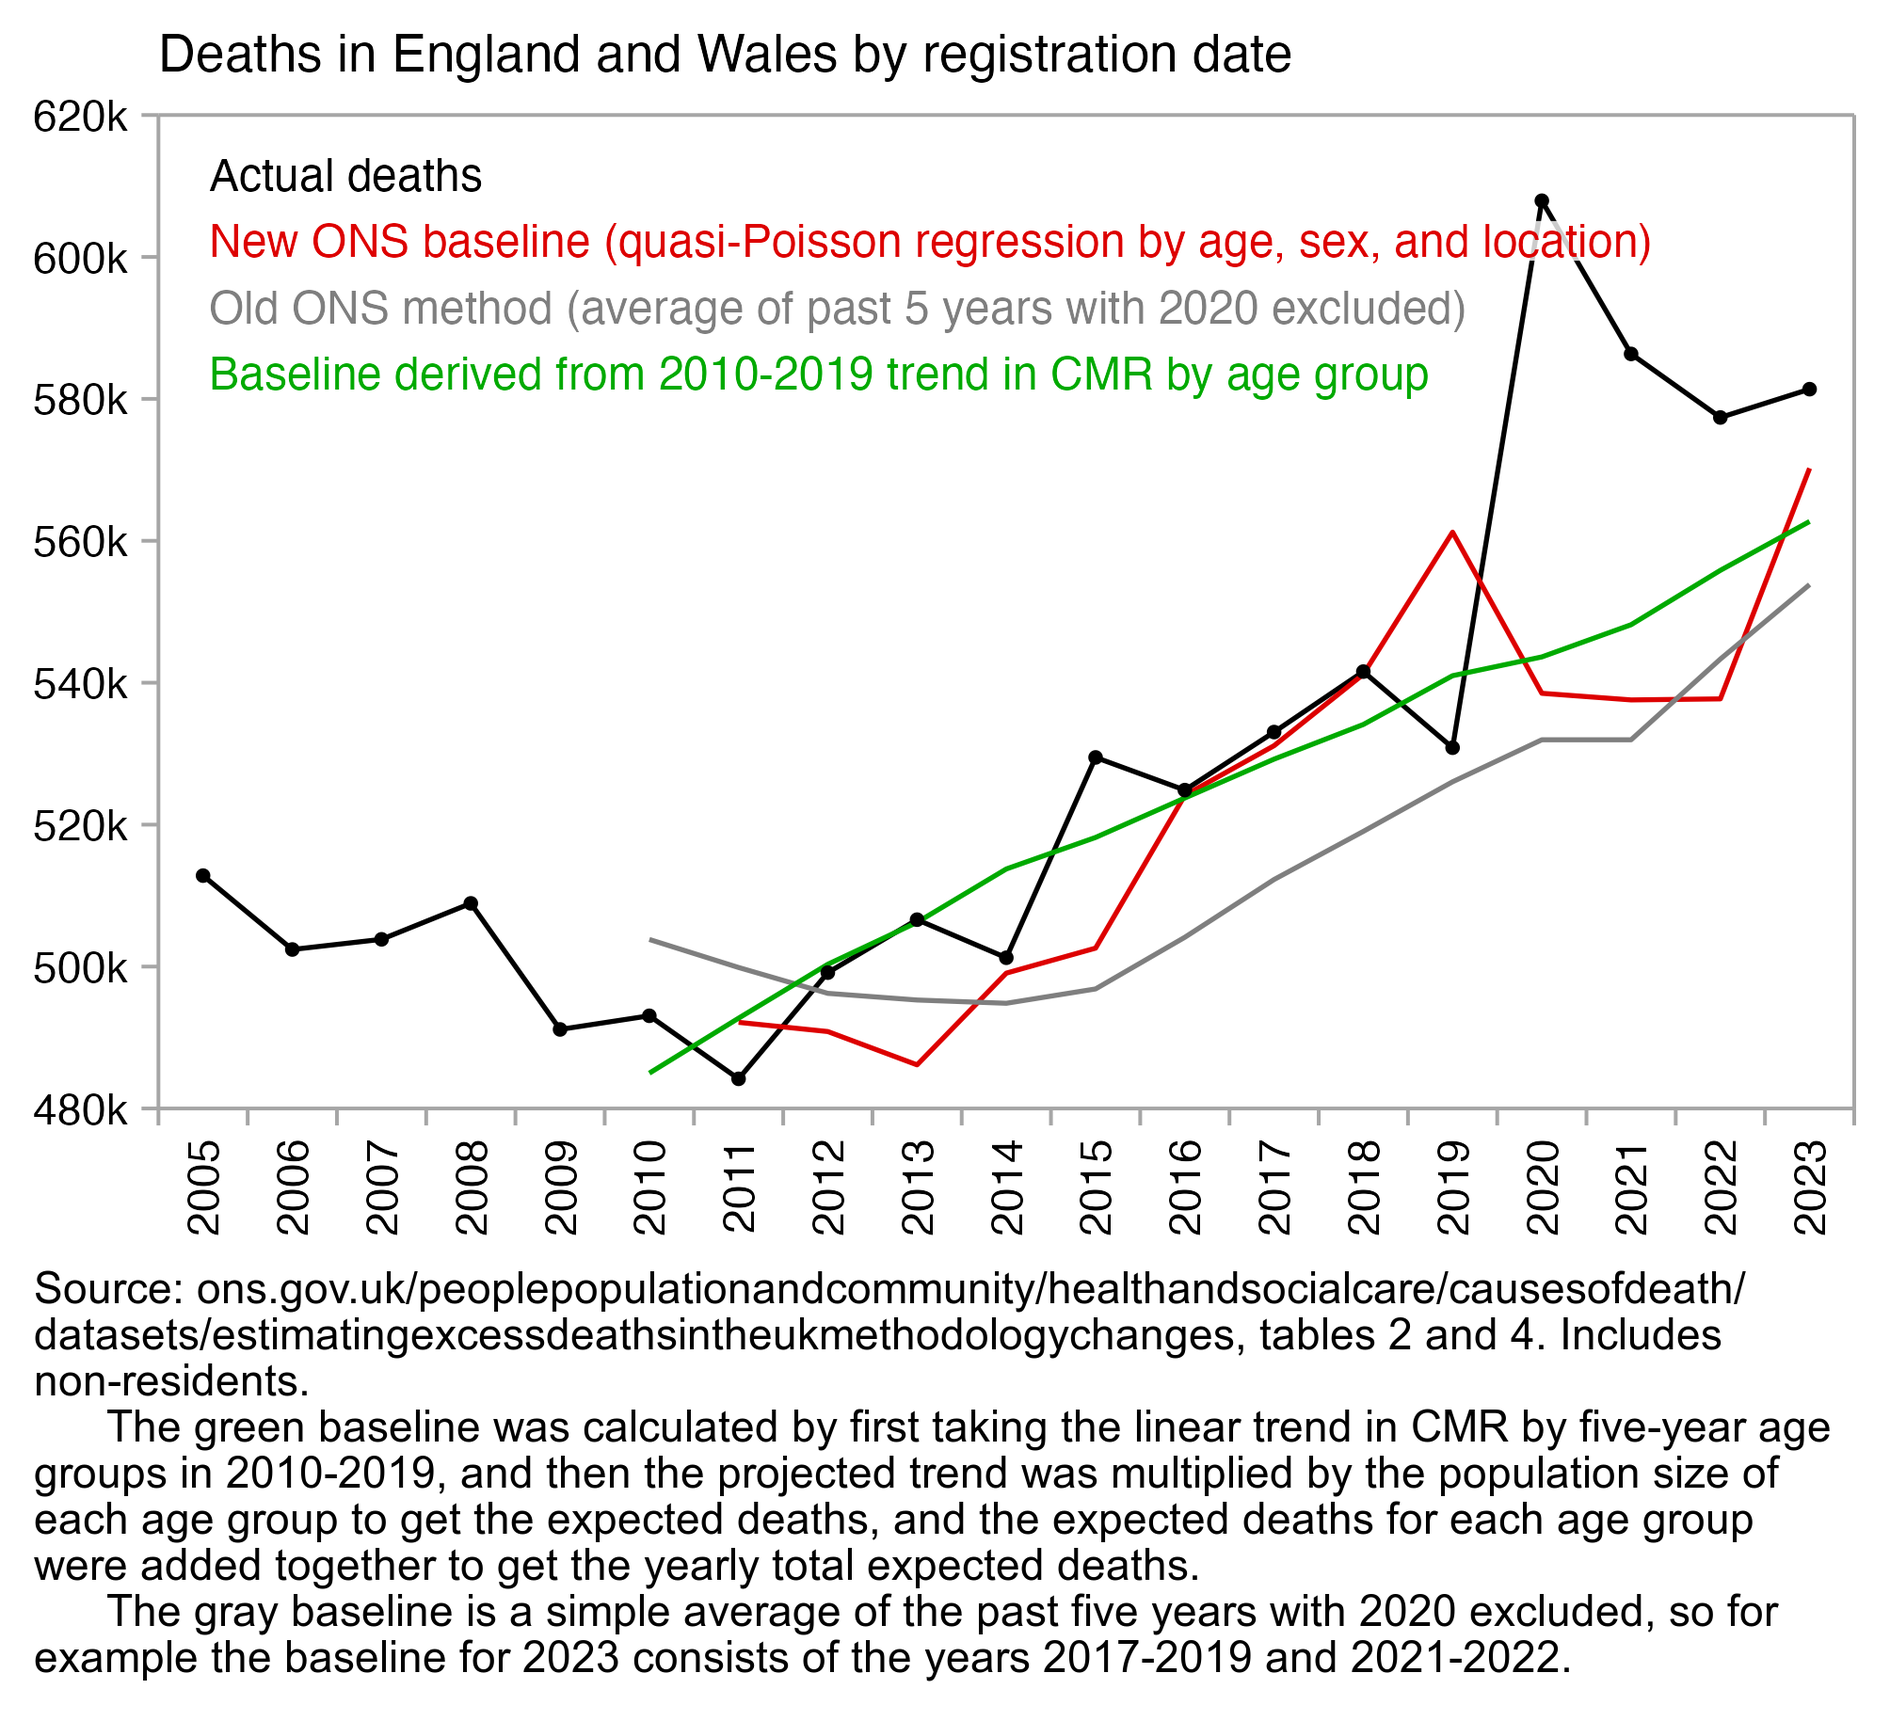
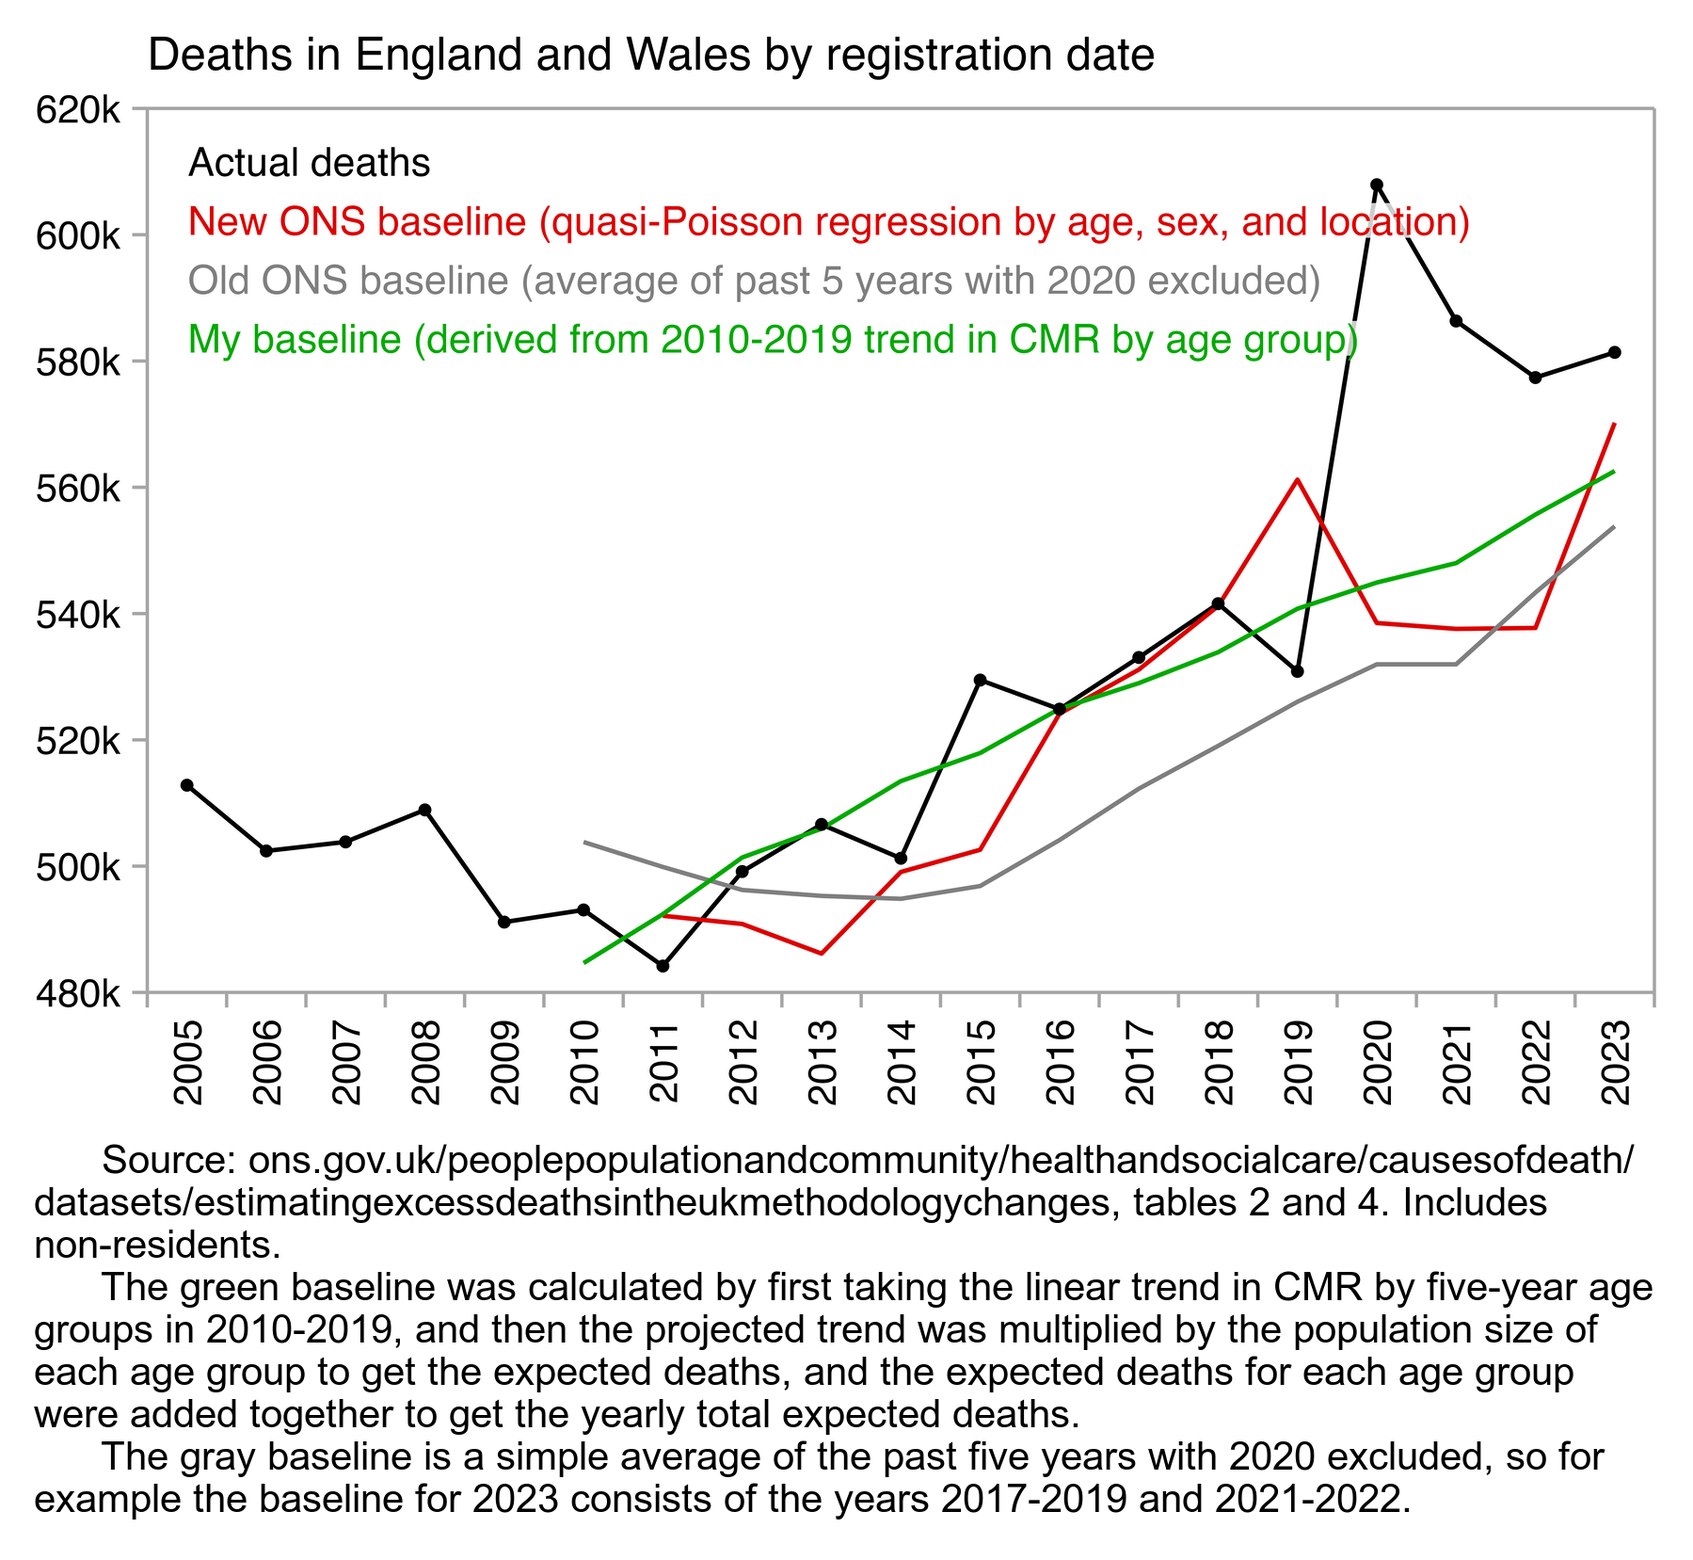
a

Changed region(s): [[0.0, 0.0, 0.9961, 0.9849], [0.6537, 0.4617, 0.7471, 0.5232], [0.3424, 0.5232, 0.3735, 0.554]]

diff --git a/uk.html b/uk.html
@@ -73,7 +73,7 @@ blockquote blockquote blockquote,blockquote blockquote .quote,blockquote .quote 
 <li><a href=#Jikkyleaks_ASMR_in_people_with_two_doses_in_the_ONS_dataset>Jikkyleaks: ASMR in people with two doses in the ONS dataset</a></li>
 <li><a href=#Steve_Kirsch_Diagnoses_for_cataracts_in_England>Steve Kirsch: Diagnoses for cataracts in England</a></li>
 <li><a href=#Clare_Craig_Email_by_ONS_about_missing_vaccination_entries>Clare Craig: Email by ONS about missing vaccination entries</a></li>
-<li><a href=#Steve_Kirsch_Lancet_paper_about_excess_deaths_in_UK>Steve Kirsch: Lancet paper about excess deaths in UK</a></li>
+<li><a href=#Steve_Kirsch_Lancet_letter_which_said_there_was_about_8_excess_deaths_in_the_UK_in_2022_and_2023>Steve Kirsch: Lancet letter which said there was about 8% excess deaths in the UK in 2022 and 2023</a></li>
 </ul>
 
 <h2>
@@ -254,52 +254,55 @@ round(colSums(d[d$year%in%2016:2019,-1]))
 </div>
 <p>People were speculating that ONS adopted the new method of calculating the baseline in order to diminish the number of excess deaths caused by the vaccines. But my plot above shows that the new ONS baseline is likely far too low in the years 2021 and 2022, which would mean that it actually exaggerates excess deaths during the years when the most vaccines were given.</p>
 <p>Here's R code for generating the plot above:</p>
-<pre>download.file(&quot;https://www.ons.gov.uk/file?uri=/peoplepopulationandcommunity/healthandsocialcare/causesofdeath/datasets/estimatingexcessdeathsintheukmethodologychanges/current/dataset20240220.xlsx&quot;,&quot;dataset20240220.xlsx&quot;)
+<pre>library(readxl);library(data.table);library(ggplot2)
 
-t=as.data.frame(readxl::read_excel(&quot;dataset20240220.xlsx&quot;,skip=4,sheet=5))
-t=t[t$Geography==&quot;England and Wales, including non-residents&quot;,]
-a=aggregate(list(dead=t$Death,pop=t$Pop),list(age=as.numeric(sub(&quot; .*&quot;,&quot;&quot;,sub(&quot;Less.*&quot;,0,t$Age))),year=t$Year),sum)
+download.file(&quot;https://www.ons.gov.uk/file?uri=/peoplepopulationandcommunity/healthandsocialcare/causesofdeath/datasets/estimatingexcessdeathsintheukmethodologychanges/current/dataset20240220.xlsx&quot;,&quot;dataset20240220.xlsx&quot;)
 
-a$trend=c(t(sapply(split(a,a$age),\(x)lm(dead/pop~year,x[x$year%in%2010:2019,])|&gt;predict(list(year=unique(a$year))))))
+t=data.table(read_excel(&quot;dataset20240220.xlsx&quot;,skip=4,sheet=6))
+t=t[Geography==&quot;England and Wales, including non-residents&quot;]
+t[,pop:=`Population estimate`*lubridate::days_in_month(paste0(Year,&quot;-&quot;,match(Month,month.name),&quot;-1&quot;))]
+t[,age:=as.numeric(sub(&quot; .*&quot;,&quot;&quot;,sub(&quot;Less.*&quot;,0,`Age group`)))]
 
-d=aggregate(a[,&quot;dead&quot;,drop=F],a[,&quot;year&quot;,drop=F],sum)
+a=t[,.(dead=sum(`Death registrations`),pop=sum(pop)),.(age,year=Year)]
+years=unique(a$year)
+a=merge(a,a[year%in%2010:2019,.(year=years,base=predict(lm(dead/pop~year),.(year=years))),age])[,base:=base*pop]
+p=a[,.(dead=sum(dead),base=sum(base)),year]
 
-t4=as.data.frame(readxl::read_excel(&quot;dataset20240220.xlsx&quot;,skip=4,sheet=7))
-t4=t4[t4$Country==&quot;England and Wales, including non-residents&quot;&amp;t4$Sex==&quot;Both sexes&quot;&amp;t4$Age==&quot;All ages&quot;,]
-d=merge(d,aggregate(list(oons=t4$&quot;Expected deaths&quot;),list(year=t4$Year),sum),all=T)
+t2=data.table(read_excel(&quot;dataset20240220.xlsx&quot;,skip=4,sheet=8))
+t2=t2[Country==&quot;England and Wales, including non-residents&quot;&amp;Sex==&quot;Both sexes&quot;&amp;`Age group`==&quot;All ages&quot;]
+p=merge(t2[,.(newons=sum(`Expected deaths`)),.(year=Year)],p,all=T)
 
-d$average=c(rep(NA,5),sapply(2010:2023,\(i)mean(tail(d$dead[d$year&lt;i&amp;d$year!=2020],5))))
-d$base=tapply(a$pop*a$trend,a$year,sum)
-d$base[d$year&lt;2010]=NA
+p$oldons=c(rep(NA,5),sapply(2010:2023,\(i)mean(tail(p$dead[p$year&lt;i&amp;p$year!=2020],5))))
 
-xy=data.frame(x=d$year,y=unlist(d[-1]),z=rep(colnames(d)[-1],each=nrow(d)))
-xy$z=factor(xy$z,unique(xy$z))
+p$base[p$year&lt;2010]=NA
 
-xstart=2005;xend=2023;xbreak=seq(xstart,xend)
+p=p[,.(x=year,y=unlist(p[,-1]),z=rep(names(p)[-1],each=.N))]
+
+p[,z:=factor(z,c(&quot;dead&quot;,&quot;newons&quot;,&quot;oldons&quot;,&quot;base&quot;))]
+color=c(&quot;black&quot;,&quot;#dd0000&quot;,&quot;gray50&quot;,&quot;#00aa00&quot;)
+lab=c(&quot;Actual deaths&quot;,&quot;New ONS baseline (quasi-Poisson regression by age, sex, and location)&quot;,&quot;Old ONS baseline (average of past 5 years with 2020 excluded)&quot;,&quot;My baseline (derived from 2010-2019 trend in CMR by age group)&quot;)
+
+xstart=2005;xend=2023;xbreak=xstart:xend
 xlab=c(rbind(&quot;&quot;,xstart:xend),&quot;&quot;)
-ymin=min(xy$y,na.rm=T);ymax=max(xy$y,na.rm=T)
+ymin=min(p$y,na.rm=T);ymax=max(p$y,na.rm=T)
 cand=c(sapply(c(1,2,5),\(year)year*10^c(-10:10)))
 ystep=cand[which.min(abs(cand-(ymax-ymin)/5))]
-yend=ystep*ceiling(ymax/ystep)
 ystart=ystep*floor(ymin/ystep)
+yend=ystep*ceiling(ymax/ystep)
 ybreak=seq(ystart,yend,ystep)
 
-color=c(&quot;black&quot;,&quot;#dd0000&quot;,&quot;gray50&quot;,&quot;#00aa00&quot;)
+leg=data.frame(x=xstart+(xend-xstart)*.027-.5,y=ystart+(yend-ystart)*seq(.94,0,-1/15)[1:nlevels(p$z)],label=lab)
 
-lab=c(&quot;Actual deaths&quot;,&quot;New ONS baseline (quasi-Poisson regression by age, sex, and location)&quot;,&quot;Old ONS method (average of past 5 years with 2020 excluded)&quot;,&quot;Baseline derived from 2010-2019 trend in CMR by age group&quot;)
-
-leg=data.frame(x=xstart+(xend-xstart)*.03-.5,y=ystart+(yend-ystart)*seq(.94,0,-1/15)[1:nlevels(xy$z)],label=lab)
-
-library(ggplot2);ggplot(xy,aes(x=x,y=y))+
+ggplot(p,aes(x=x,y=y))+
 geom_hline(yintercept=c(ystart,yend),color=&quot;gray65&quot;,linewidth=.3)+
 geom_vline(xintercept=c(xstart-.5,xend+.5),color=&quot;gray65&quot;,linewidth=.3)+
 geom_line(aes(color=z),linewidth=.4)+
-geom_point(data=subset(xy,z==&quot;dead&quot;),aes(color=z),size=.5)+
+geom_point(data=subset(p,z==&quot;dead&quot;),aes(color=z),size=.5)+
 geom_label(data=leg,aes(x=x,y=y,label=label),fill=alpha(&quot;white&quot;,.8),label.r=unit(0,&quot;lines&quot;),label.padding=unit(.04,&quot;lines&quot;),label.size=0,color=color,size=2.7,hjust=0)+
 labs(title=&quot;Deaths in England and Wales by registration date&quot;,x=NULL,y=NULL)+
-coord_cartesian(clip=&quot;off&quot;,expand=F)+
 scale_x_continuous(limits=c(xstart-.5,xend+.5),breaks=seq(xstart-.5,xend+.5,.5),labels=xlab)+
 scale_y_continuous(limits=c(ystart,yend),breaks=ybreak,labels=\(x)paste0(x/1e3,&quot;k&quot;))+
+coord_cartesian(clip=&quot;off&quot;,expand=F)+
 scale_color_manual(values=color)+
 theme(axis.text=element_text(size=7.5,color=&quot;black&quot;),
   axis.text.x=element_text(angle=90,vjust=.5,hjust=1),
@@ -314,13 +317,13 @@ theme(axis.text=element_text(size=7.5,color=&quot;black&quot;),
   plot.margin=margin(.4,.6,.4,.4,&quot;lines&quot;),
   plot.subtitle=element_text(size=7.2),
   plot.title=element_text(size=8.8))
-ggsave(&quot;0.png&quot;,width=4.5,height=3,dpi=450)
+ggsave(&quot;0.png&quot;,width=4.5,height=3,dpi=400*4)
 
-sub=&quot;Source: ons.gov.uk/peoplepopulationandcommunity/healthandsocialcare/causesofdeath/\ndatasets/estimatingexcessdeathsintheukmethodologychanges, tables 2 and 4. Includes non-residents.
+sub=&quot;\u00a0     Source: ons.gov.uk/peoplepopulationandcommunity/healthandsocialcare/causesofdeath/\ndatasets/estimatingexcessdeathsintheukmethodologychanges, tables 2 and 4. Includes non-residents.
       The green baseline was calculated by first taking the linear trend in CMR by five-year age groups in 2010-2019, and then the projected trend was multiplied by the population size of each age group to get the expected deaths, and the expected deaths for each age group were added together to get the yearly total expected deaths.
       The gray baseline is a simple average of the past five years with 2020 excluded, so for example the baseline for 2023 consists of the years 2017-2019 and 2021-2022.&quot;
 
-system(paste0(&quot;mogrify -trim 0.png;convert 0.png -gravity northwest \\( -size `identify -format %w 0.png`x -font Arial -interline-spacing -3 -pointsize 46 caption:&#39;&quot;,sub,&quot;&#39; -gravity north -splice x30 \\) -append -bordercolor white -border 36 1.png&quot;))</pre>
+system(paste0(&quot;magick 0.png -resize 25% -trim 1.png;magick 1.png \\( -size `identify -format %w 1.png`x -font Arial -interline-spacing -3 -pointsize 42 caption:&#39;&quot;,sub,&quot;&#39; -splice x30 \\) -append -bordercolor white -border 36 1.png&quot;))</pre>
 <p>Craig also wrote: <span class="quote">&quot;However, you can't hide the truth forever. All that is needed is the calculation of an age-standardised mortality rate. This is a way of mapping mortality from a real population to one that has a standard age structure so different regions can be fairly compared with each other and across time. Using that methodology it is impossible to hide the issue of excess mortality.&quot;</span> In the code below I calculated ASMR for England and Wales using the spreadsheet that accompanied the methodology article by the ONS. I used the 2020 population as the standard population, and I used the 2005-2019 second-degree polynomial trend in ASMR as the baseline, which gave me only about 0.12% excess ASMR in the years 2016-2019 (so it's closer to the new ONS baseline than to the old ONS baseline):</p>
 <div class="width5">
 <img src="i/covidstat-onsbase-5.png">
@@ -1183,19 +1186,41 @@ print(mutate_if(me,is.double,round),r=F)</pre>
 </blockquote>
 <p>However the ONS had already fixed the issue of the missing vaccination entries in 2022, but it didn't have much effect on the overall mortality rates of vaccinated and unvaccinated people. Unvaccinated people still have a big spike in non-COVID deaths in early 2021, there's still low mortality in the first 3 weeks after vaccination, and the ASMR of people with n-1 doses still shoots up when the nth dose is rolled out. So the various phenomena which Fenton and Neil attempted to explain in their preprints are still present in the ONS dataset even though the error of the missing vaccination records was already fixed. So the error was not sufficient to explain the phenomena, so Fenton and Neil still need to come up with some other way to explain them.</p>
 <h2>
-<a href=#Steve_Kirsch_Lancet_paper_about_excess_deaths_in_UK id=Steve_Kirsch_Lancet_paper_about_excess_deaths_in_UK>Steve Kirsch: Lancet paper about excess deaths in UK</a>
+<a href=#Steve_Kirsch_Lancet_letter_which_said_there_was_about_8_excess_deaths_in_the_UK_in_2022_and_2023 id=Steve_Kirsch_Lancet_letter_which_said_there_was_about_8_excess_deaths_in_the_UK_in_2022_and_2023>Steve Kirsch: Lancet letter which said there was about 8% excess deaths in the UK in 2022 and 2023</a>
 </h2>
-<p>Steve Kirsch posted this Substack post:</p>
+<p>Steve Kirsch posted this Substack post about a short letter that was published in The Lancet: [<a href="https://kirschsubstack.com/p/uk-ons-excess-deaths-in-the-uk-cannot">https://kirschsubstack.com/p/uk-ons-excess-deaths-in-the-uk-cannot</a>]</p>
 <div class="width6">
 <img src="i/uk-lancet.jpg">
 </div>
-<p>The paper said: <span class="quote">&quot;The UK Office for National Statistics (ONS) has calculated that there were 7.2% or 44,255 more deaths registered in the UK in 2022 based on comparison with the five-year average (excluding 2020). This persisted into 2023 with 8.6% or 28,024 more deaths registered in the first six months of the year than expected.&quot;</span> [<a href="https://www.thelancet.com/journals/lanepe/article/PIIS2666-7762%2823%2900221-1/fulltext">https://www.thelancet.com/journals/lanepe/article/PIIS2666-7762%2823%2900221-1/fulltext</a>]</p>
-<p>However the five-year average baseline overestimates excess deaths because of the aging baby boomer population. There is an increasing trend in the number of deaths per year, and the five-year average baseline is lagging three years behind the trend.</p>
-<p>In the plot below I used a more accurate method to calculate the baseline for excess deaths. I first calculated a linear trend in CMR by 5-year age groups in 2010-2019, then I projected the trend for each age group to 2020-2023, and I multiplied the population size of each age group with the projected trend to get the expected deaths, and I added together the expected deaths for all age groups to get the total expected deaths for each year. It gave me only about 4.3% excess deaths in England and Wales in 2022 and about 3.9% excess deaths in 2023:</p>
+<p>The letter said: <span class="quote">&quot;The UK Office for National Statistics (ONS) has calculated that there were 7.2% or 44,255 more deaths registered in the UK in 2022 based on comparison with the five-year average (excluding 2020). This persisted into 2023 with 8.6% or 28,024 more deaths registered in the first six months of the year than expected.&quot;</span> [<a href="https://www.thelancet.com/journals/lanepe/article/PIIS2666-7762%2823%2900221-1/fulltext">https://www.thelancet.com/journals/lanepe/article/PIIS2666-7762%2823%2900221-1/fulltext</a>]</p>
+<p>The letter was published in December 2023 before the ONS had published their new methodology for calculating excess deaths, so the letter still used the old 5-year average method to calculate the baseline number of deaths. However the 5-year average baseline overestimates excess deaths because of the aging baby boomer population, because there is an increasing trend in the yearly number of deaths but the 5-year average baseline is lagging 3 years behind the trend.</p>
+<p>In the plot below I used a more accurate method to calculate the baseline for excess deaths. I first calculated a linear trend in CMR by 5-year age groups in 2010-2019, then I projected the trend for each age group to 2020-2023, and I multiplied the population size of each age group with the projected trend to get the expected deaths, and I added together the expected deaths for all age groups to get the total expected deaths for each year. It gave me only about 3.9% excess deaths in England and Wales in 2022 and about 3.3% excess deaths in 2023:</p>
 <div class="width6">
 <img src="i/covidstat-onsbase-4.png">
 </div>
-<p>I posted the R code for the plot around the middle of this section: <a href=#Clare_Craig_New_baseline_used_by_ONS_to_calculate_excess_deaths>#Clare_Craig_New_baseline_used_by_ONS_to_calculate_excess_deaths</a>.</p>
+<p>In the plot above I used data from the spreadsheet which accompanied the article by the ONS about the new baseline methodology, which has data for monthly deaths and population estimates grouped by region and 5-year age groups: <a href="https://www.ons.gov.uk/peoplepopulationandcommunity/healthandsocialcare/causesofdeath/articles/estimatingexcessdeathsintheukmethodologychanges/february2024">https://www.ons.gov.uk/peoplepopulationandcommunity/healthandsocialcare/causesofdeath/articles/estimatingexcessdeathsintheukmethodologychanges/february2024</a>. I posted R code for making the plot here: <a href=#Clare_Craig_New_baseline_used_by_ONS_to_calculate_excess_deaths>#Clare_Craig_New_baseline_used_by_ONS_to_calculate_excess_deaths</a>. Here's a simplified version of the code which only calculates the yearly percentage of excess deaths:</p>
+<pre>download.file(&quot;https://www.ons.gov.uk/file?uri=/peoplepopulationandcommunity/healthandsocialcare/causesofdeath/datasets/estimatingexcessdeathsintheukmethodologychanges/current/dataset20240220.xlsx&quot;,&quot;dataset20240220.xlsx&quot;)
+
+library(data.table)
+t=data.table(readxl::read_excel(&quot;dataset20240220.xlsx&quot;,skip=4,sheet=6))
+t=t[Geography==&quot;England and Wales, including non-residents&quot;]
+t[,pop:=`Population estimate`*lubridate::days_in_month(paste0(Year,&quot;-&quot;,match(Month,month.name),&quot;-1&quot;))]
+
+a=t[,.(dead=sum(`Death registrations`),pop=sum(pop)),.(age=`Age group`,year=Year)]
+years=unique(a$year)
+a=merge(a,a[year%in%2010:2019,.(year=years,base=predict(lm(dead/pop~year),.(year=years))),age])[,base:=base*pop]
+a[year&gt;=2015,.(excesspct=round((sum(dead)/sum(base)-1)*100,1)),year]|&gt;print(r=F)</pre>
+<!-- -->
+<pre> year excesspct
+ 2015       2.2
+ 2016       0.0
+ 2017       0.8
+ 2018       1.4
+ 2019      -1.8
+ 2020      11.6
+ 2021       7.0
+ 2022       3.9
+ 2023       3.3</pre>
 <script>
 let q=document.querySelectorAll('a,code,pre')
 for(let i=0;e=q[i];i++)e.innerHTML=e.innerHTML.replace(/(\w{60,})/g,x=>x.replace(/./g,"$&<wbr>")).replace(/([\041-\045\047-\057\072\075\077-\100\133-\137\173-\176])/g,"$1<wbr>")
